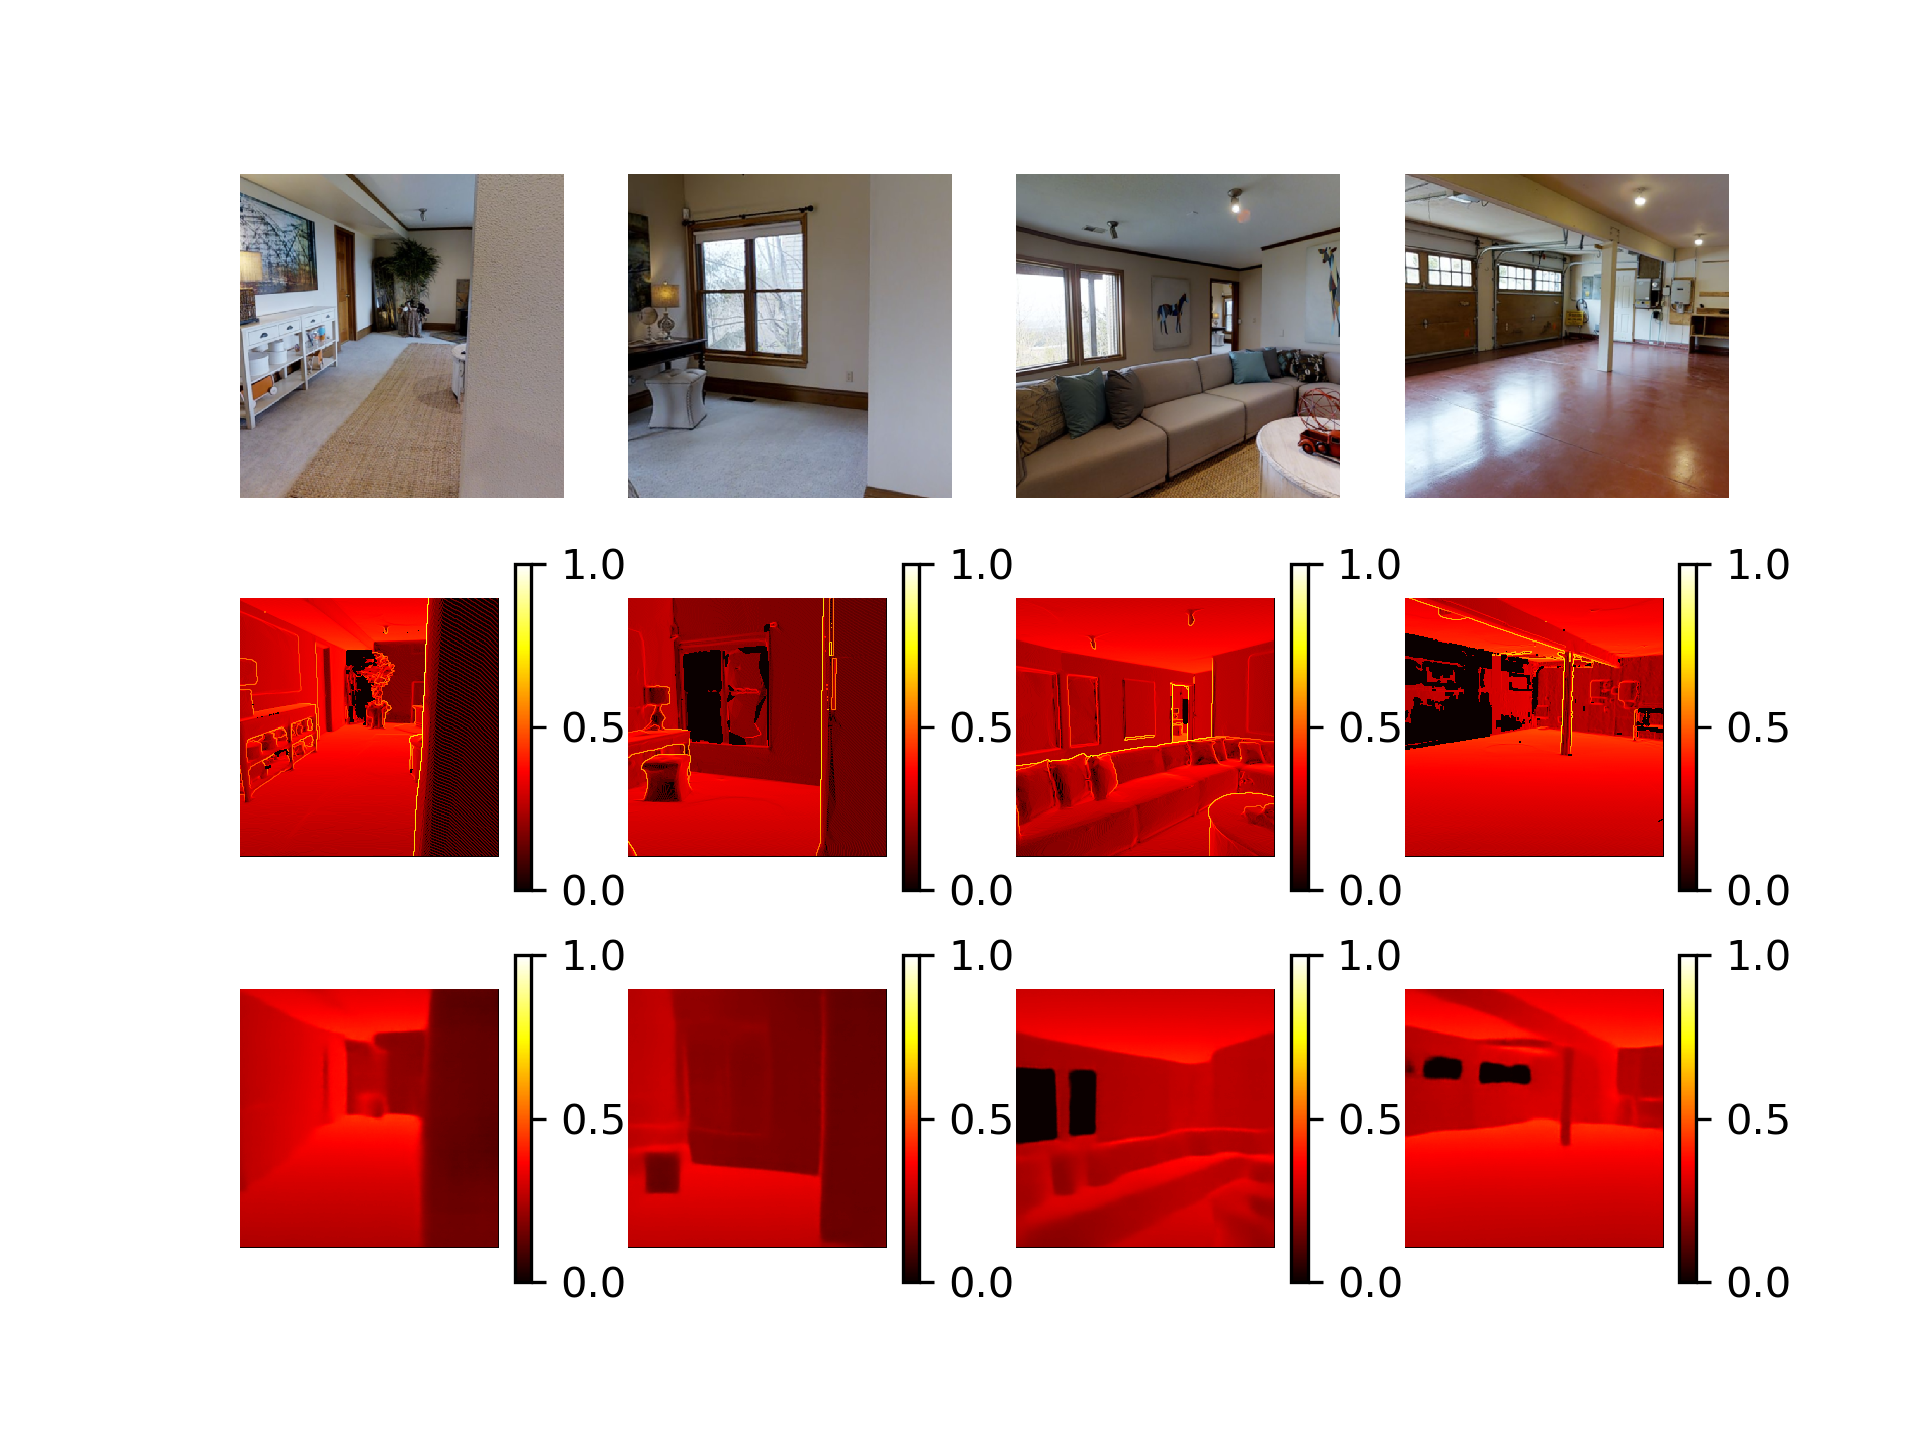
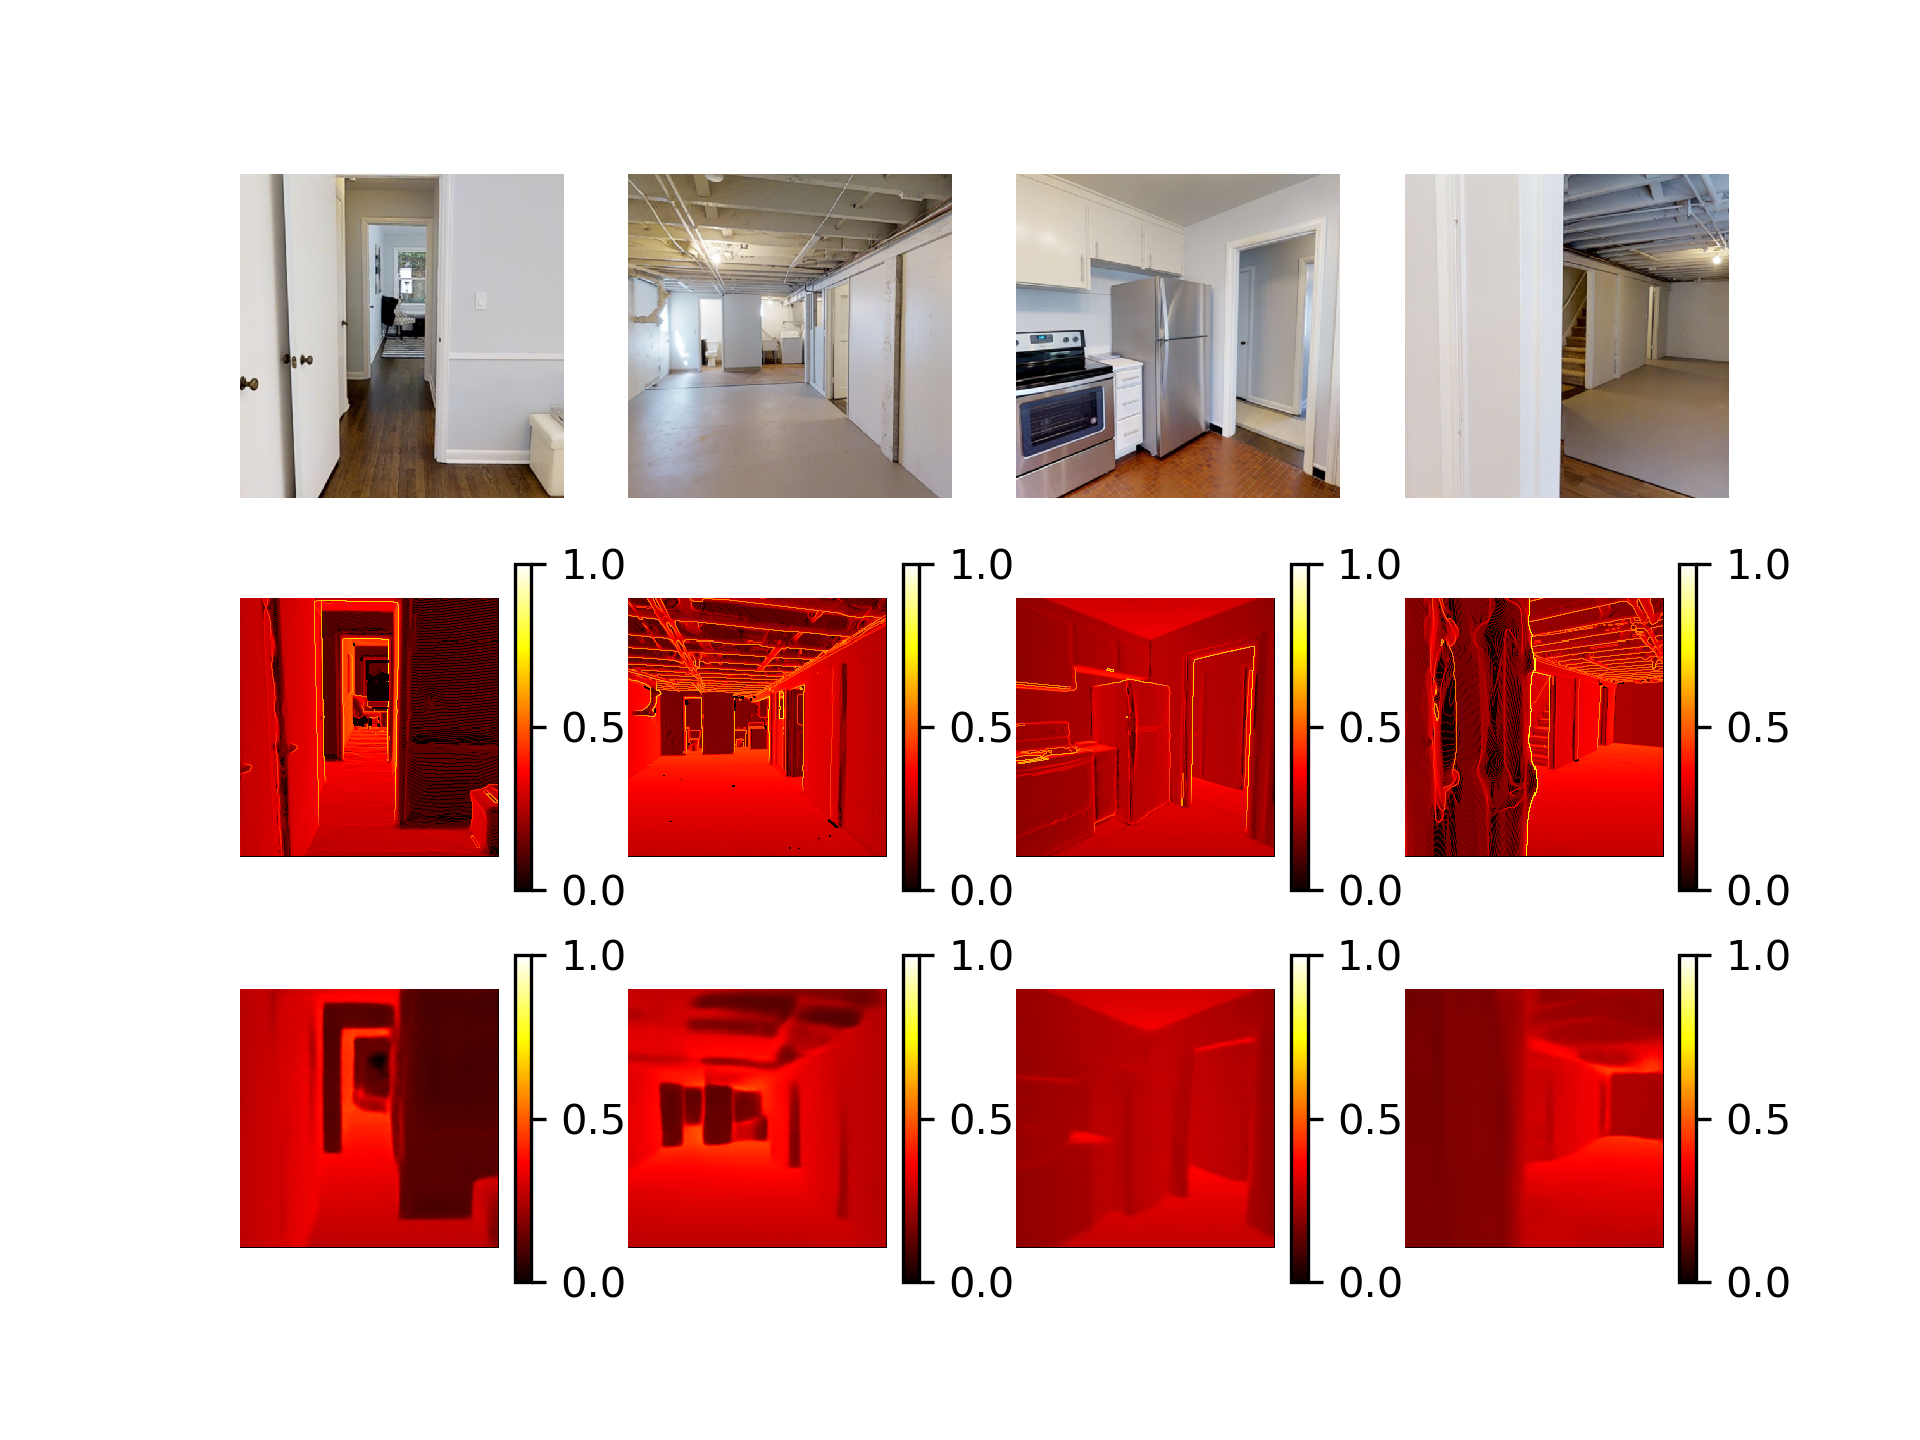
update

diff --git a/edge3d/edge3d_visualize.py b/edge3d/edge3d_visualize.py
@@ -74,7 +74,7 @@ def main():
                                                 brenta = args.brenta)
     taskonomy_testloader = torch.utils.data.DataLoader(taskonomy_testset,
                                                        batch_size=args.test_batch,
-                                                       shuffle=True,
+                                                       shuffle=args.shuffle,
                                                        num_workers=args.num_workers)
 
     taskonomy_testframe = pd.read_csv('../data/tiny_taskonomy_rgb_test.csv', delimiter=' ')
@@ -139,7 +139,6 @@ def main():
 
     plt.show()
     plt.savefig('demo.png', dpi=300)
-
 
 
 if __name__ == '__main__':

diff --git a/rgb2depth/depth_visualize.py b/rgb2depth/depth_visualize.py
@@ -64,7 +64,7 @@ def main():
                                                 brenta = args.brenta)
     taskonomy_testloader = torch.utils.data.DataLoader(taskonomy_testset,
                                                        batch_size=args.test_batch,
-                                                       shuffle=True,
+                                                       shuffle=args.shuffle,
                                                        num_workers=8)
 
     taskonomy_testframe = pd.read_csv('../data/tiny_taskonomy_rgb_test.csv', delimiter=' ')
